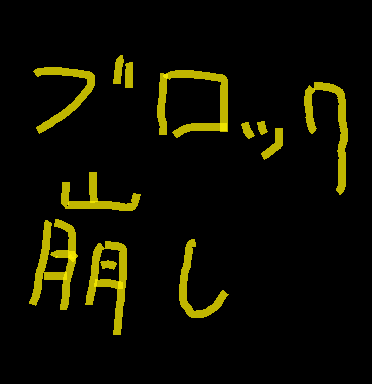
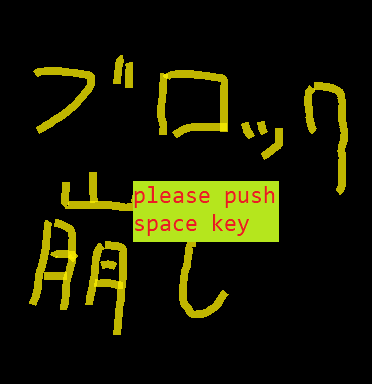
[update]スペースを押すとタイトルからゲーム画面へ遷移.

Changed region(s): [[0.3548, 0.4688, 0.7688, 0.6562]]

diff --git a/src/breakout.py b/src/breakout.py
@@ -7,30 +7,33 @@ import random
 
 SCR_RECT = Rect(0, 0, 372, 384)
 
+START, PLAY, GAMEOVER = (0, 1, 2)  # ゲーム状態
+game_state = START
+
 def main():
     pygame.init()
     pygame.display.set_caption(u"ブロック崩し")
     screen = pygame.display.set_mode(SCR_RECT.size)
     while True:
         initView(screen)
-        mainSystem(screen)
+        breakout(screen)
 
 def initView(screen):
+    global game_state
     title, title_rect = load_image("title.png")
-    start_button, start_button_rect = load_image("start_button.png")
     screen.blit(title, (0, 0))
-    screen.blit(start_button, (265,250))
     pygame.display.update()
-    while True:
+    while game_state == START:
         for event in pygame.event.get():
             if event.type == QUIT:
                 pygame.quit()
                 sys.exit()
-            if event.type == KEYDOWN and event.key == K_ESCAPE:
-                pygame.quit()
-                sys.exit()
+            if event.type == KEYDOWN and event.key == K_SPACE:
+                game_state = PLAY
+
+
     
-def mainSystem(screen):
+def breakout(screen):
 
     # BGMを再生
     # MFP【Marron Fields Production】
